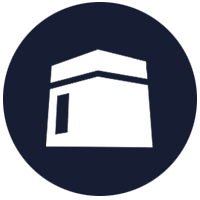
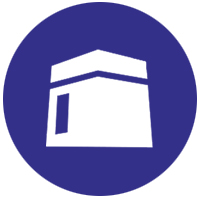
Update themes and image

diff --git a/css/theme.css b/css/theme.css
@@ -250,18 +250,11 @@ ul.bxslider {
   padding: 40px 0 20px 0;
   color: #fff;
   font-size: 90%;
-  background: rgba(16,57,199,1);
-  background: -moz-linear-gradient(top, rgba(16,57,199,1) 0%, rgba(0,64,255,1) 100%);
-  background: -webkit-gradient(left top, left bottom, color-stop(0%, rgba(16,57,199,1)), color-stop(100%, rgba(0,64,255,1)));
-  background: -webkit-linear-gradient(top, rgba(16,57,199,1) 0%, rgba(0,64,255,1) 100%);
-  background: -o-linear-gradient(top, rgba(16,57,199,1) 0%, rgba(0,64,255,1) 100%);
-  background: -ms-linear-gradient(top, rgba(16,57,199,1) 0%, rgba(0,64,255,1) 100%);
-  background: linear-gradient(to bottom, rgba(16,57,199,1) 0%, rgba(0,64,255,1) 100%);
-  filter: progid:DXImageTransform.Microsoft.gradient( startColorstr='#1039c7', endColorstr='#0040ff', GradientType=0 );
+  background: #43449b;
 }
 
 .footer {
-  background: #171d33;
+  background: #2f306e;
   color: #fff;
   padding: 30px 0 10px 0;
   font-family: 'Open Sans', sans-serif;

diff --git a/wp_adminnav.php b/wp_adminnav.php
@@ -21,6 +21,7 @@ function archiprada_menu() {
   remove_menu_page( 'plugins.php' );
   remove_menu_page( 'users.php' );
   remove_menu_page( 'tools.php' );
+  remove_menu_page( 'acf' );
 
   remove_submenu_page( 'index.php', 'update-core.php' );
   remove_submenu_page( 'themes.php', 'themes.php' );
